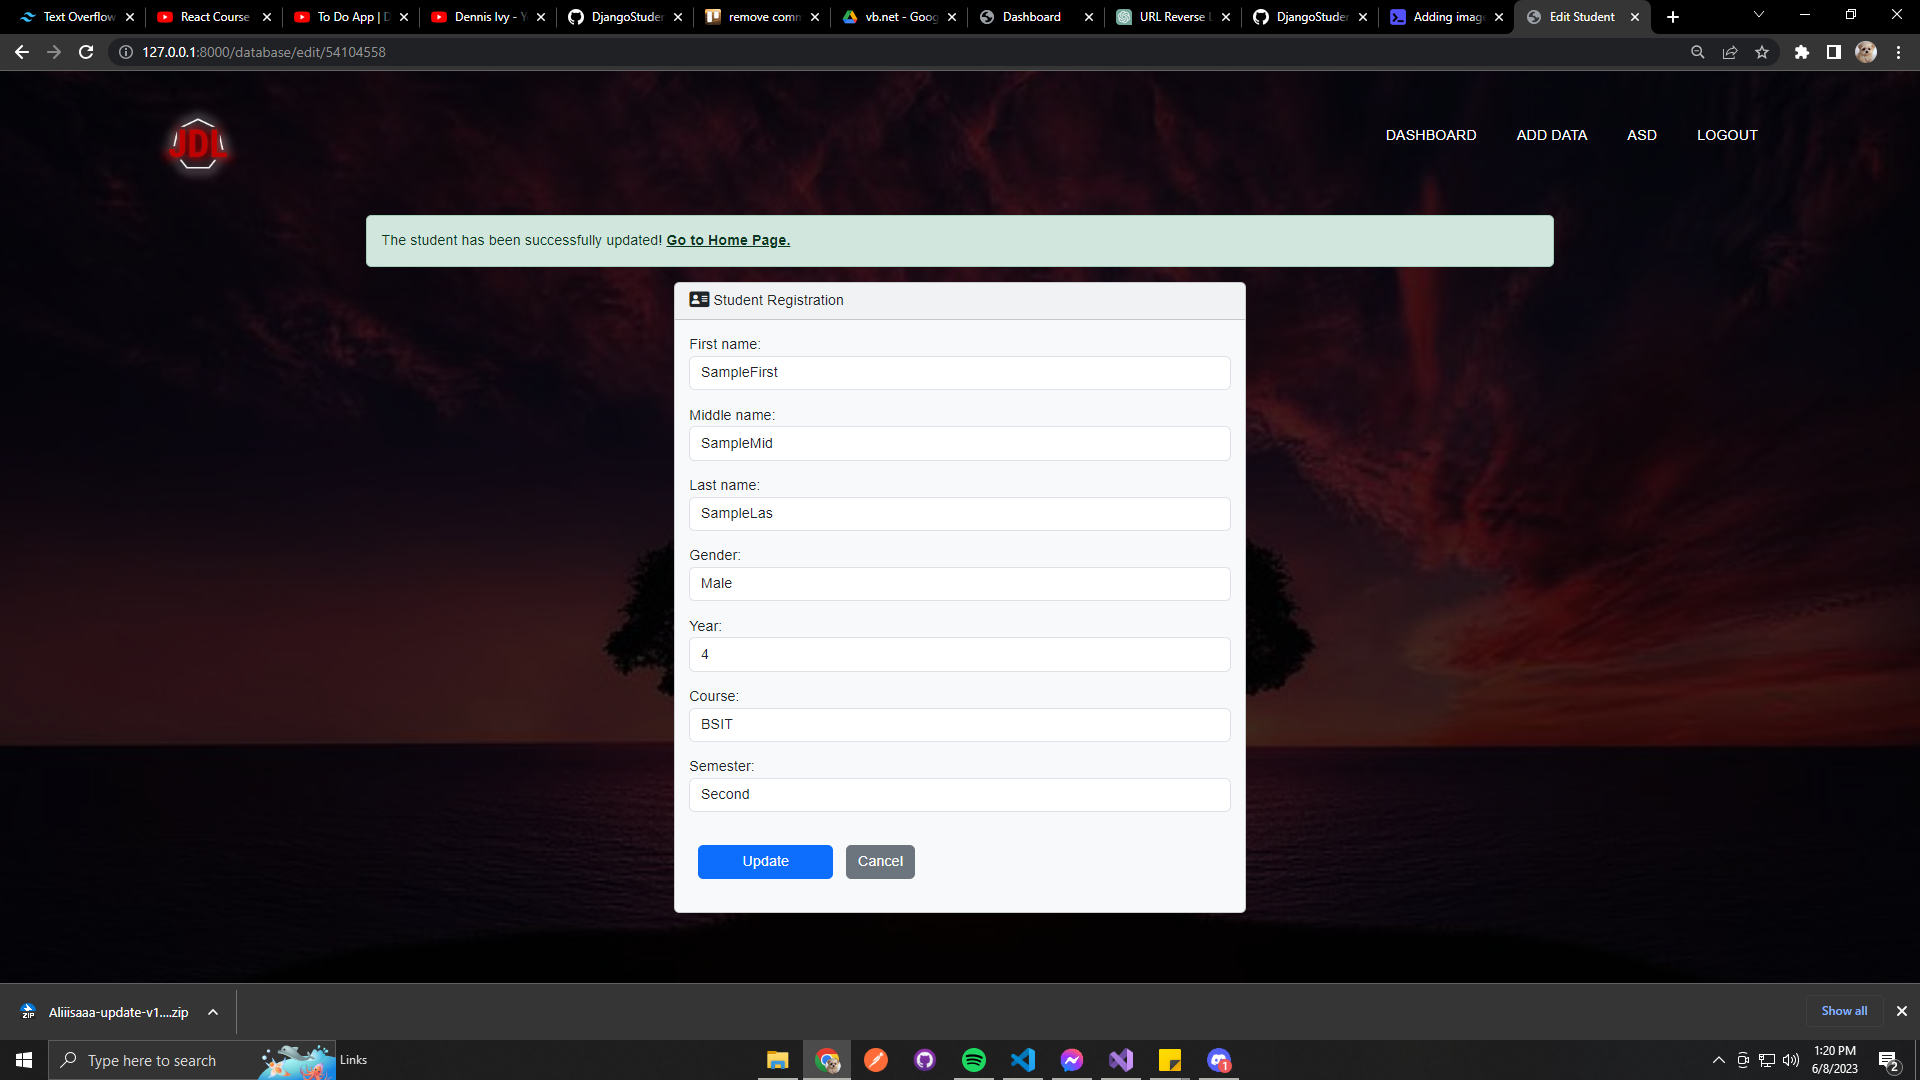
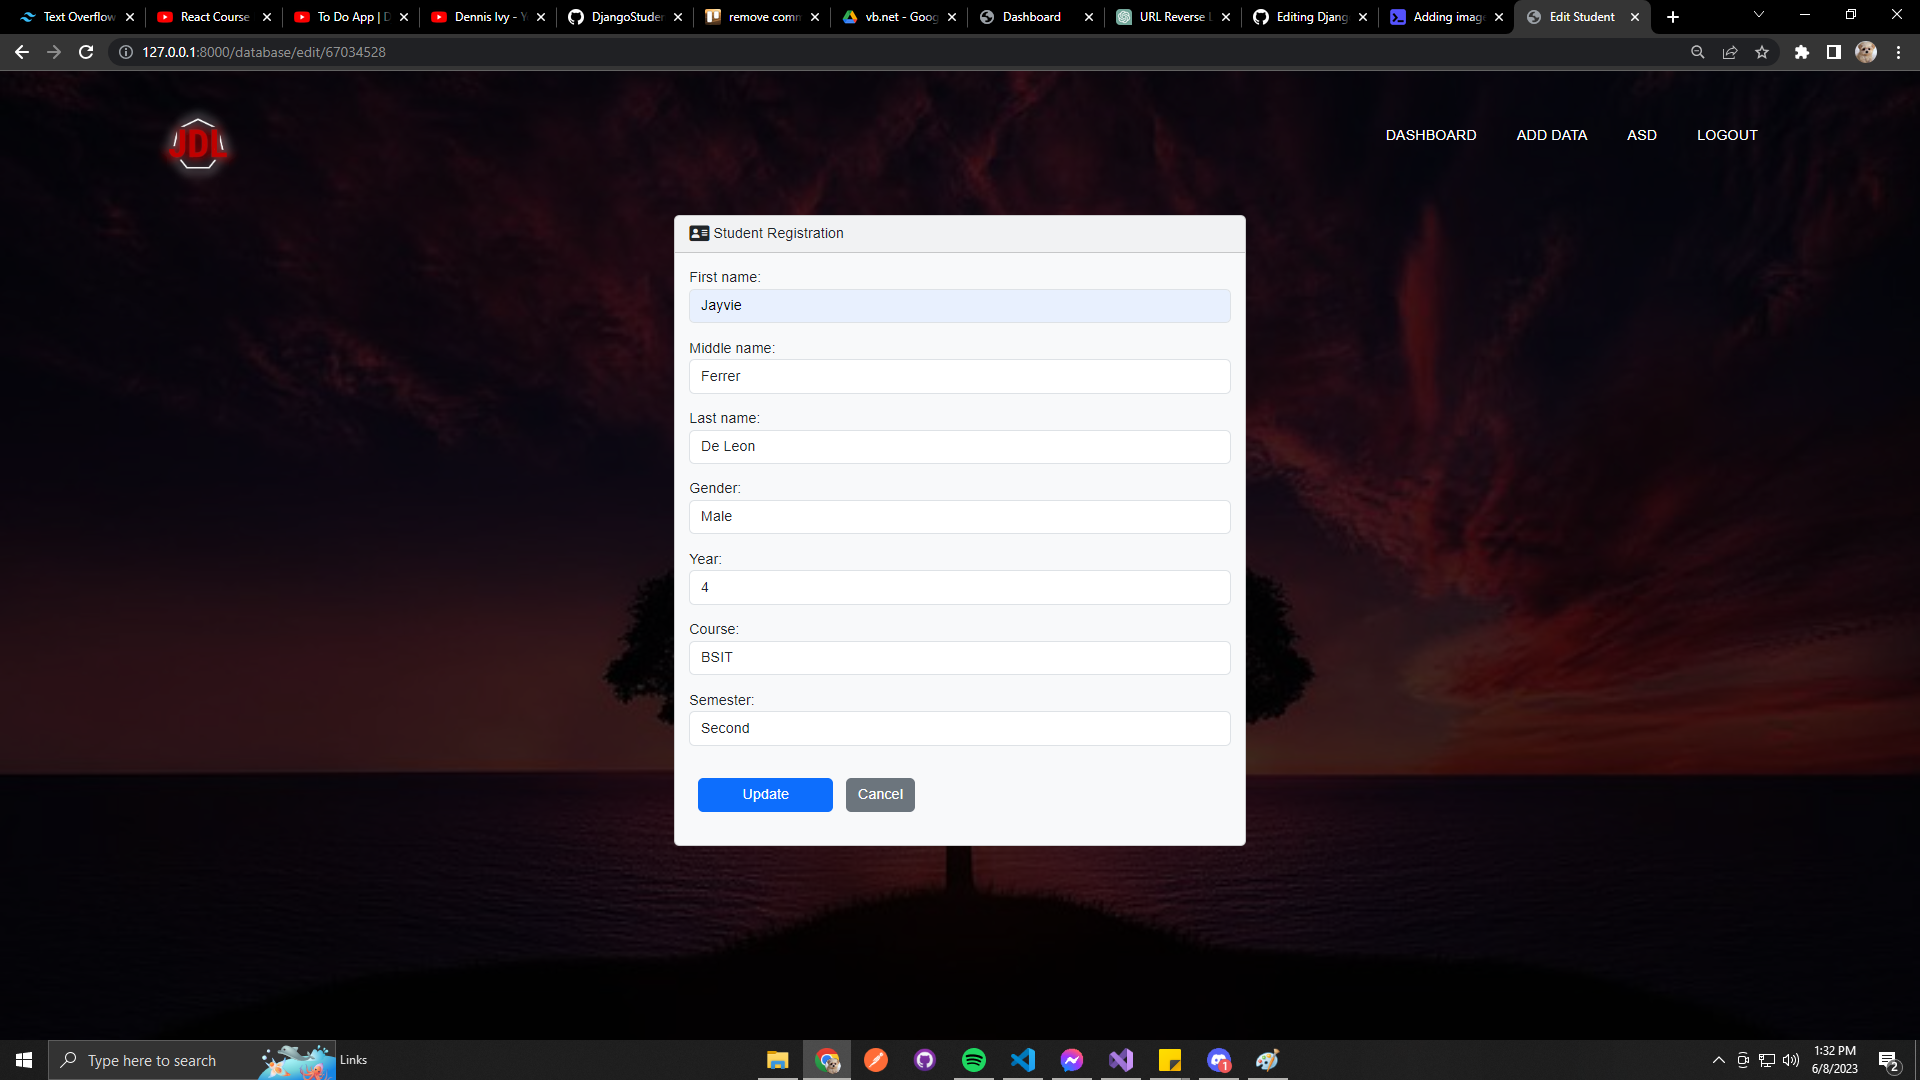
final touch

diff --git a/base/auth_user/templates/auth_user/edit.html b/base/auth_user/templates/auth_user/edit.html
@@ -19,9 +19,9 @@
     <div class="container-sm">
       <div class="row justify-content-center">
         {% if success %}
-        <div class="alert alert-success" role="alert">
-          The student has been successfully updated!
-          <a href="{% url 'database' %}" class="alert-link">Go to Home Page.</a>
+        <div class="alert alert-success alert-dismissible fade show" role="alert">
+            A new student has been added!
+            <a href = "{% url 'database' %}" class="btn-close" data-bs-dismiss="alert" aria-label="Close"></a>
         </div>
         <br>
         {% endif %} 

diff --git a/base/auth_user/migrations/0001_initial.py b/base/auth_user/migrations/0001_initial.py
@@ -1,4 +1,4 @@
-# Generated by Django 4.1.7 on 2023-06-08 05:22
+# Generated by Django 4.1.7 on 2023-06-08 05:36
 
 import django.contrib.auth.models
 import django.contrib.auth.validators
